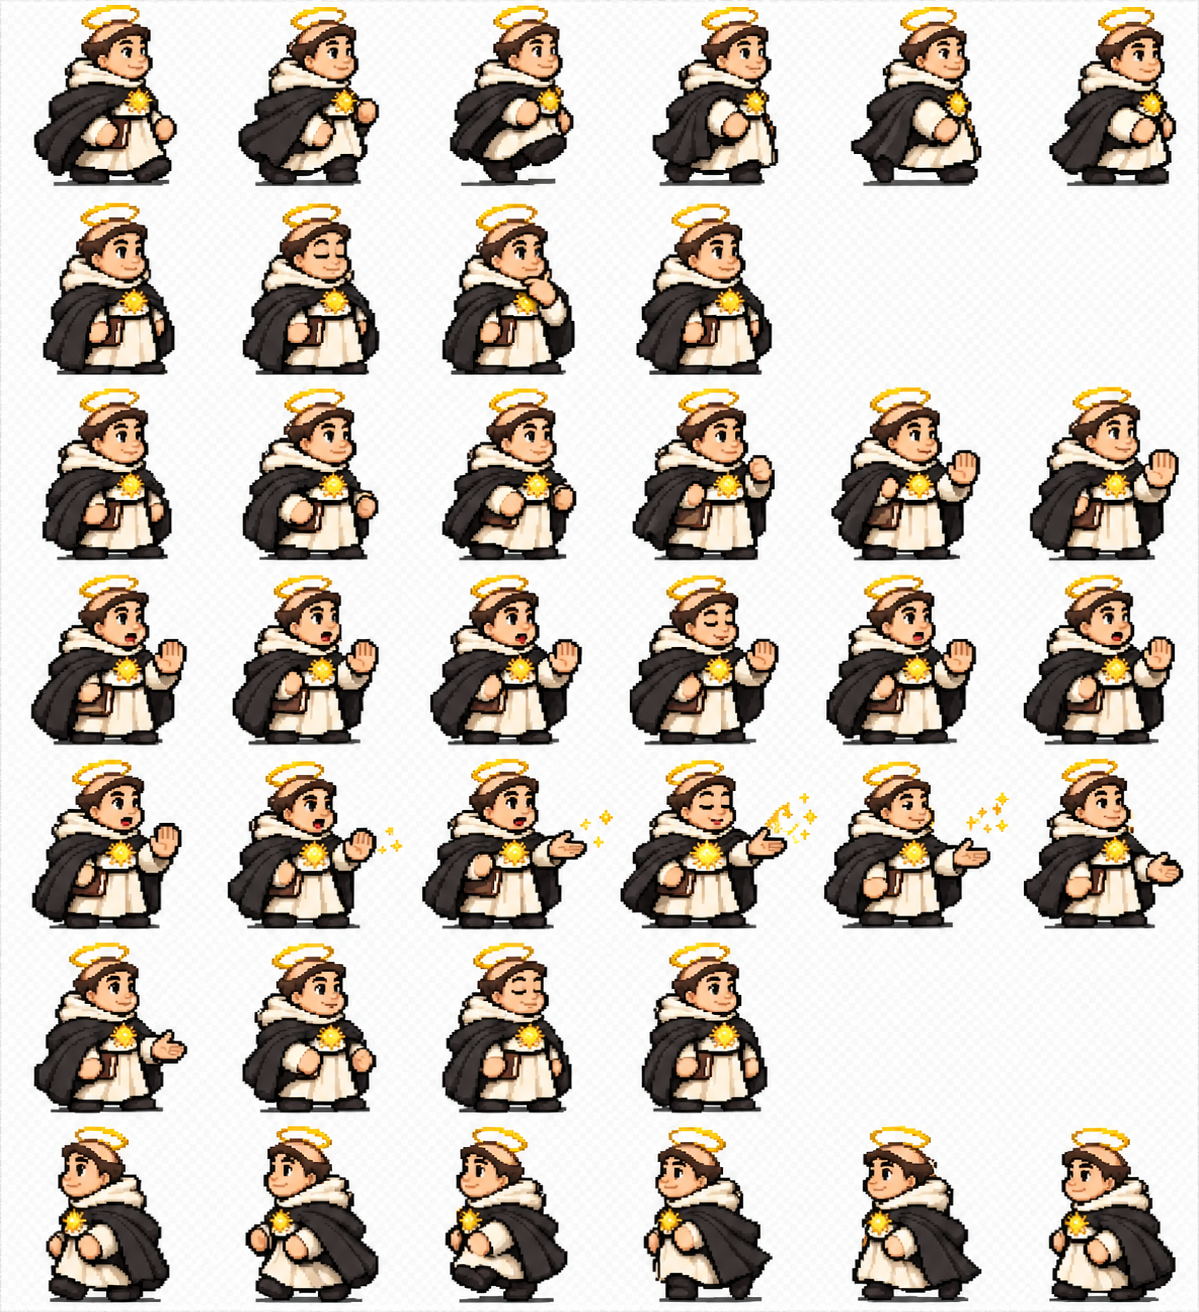
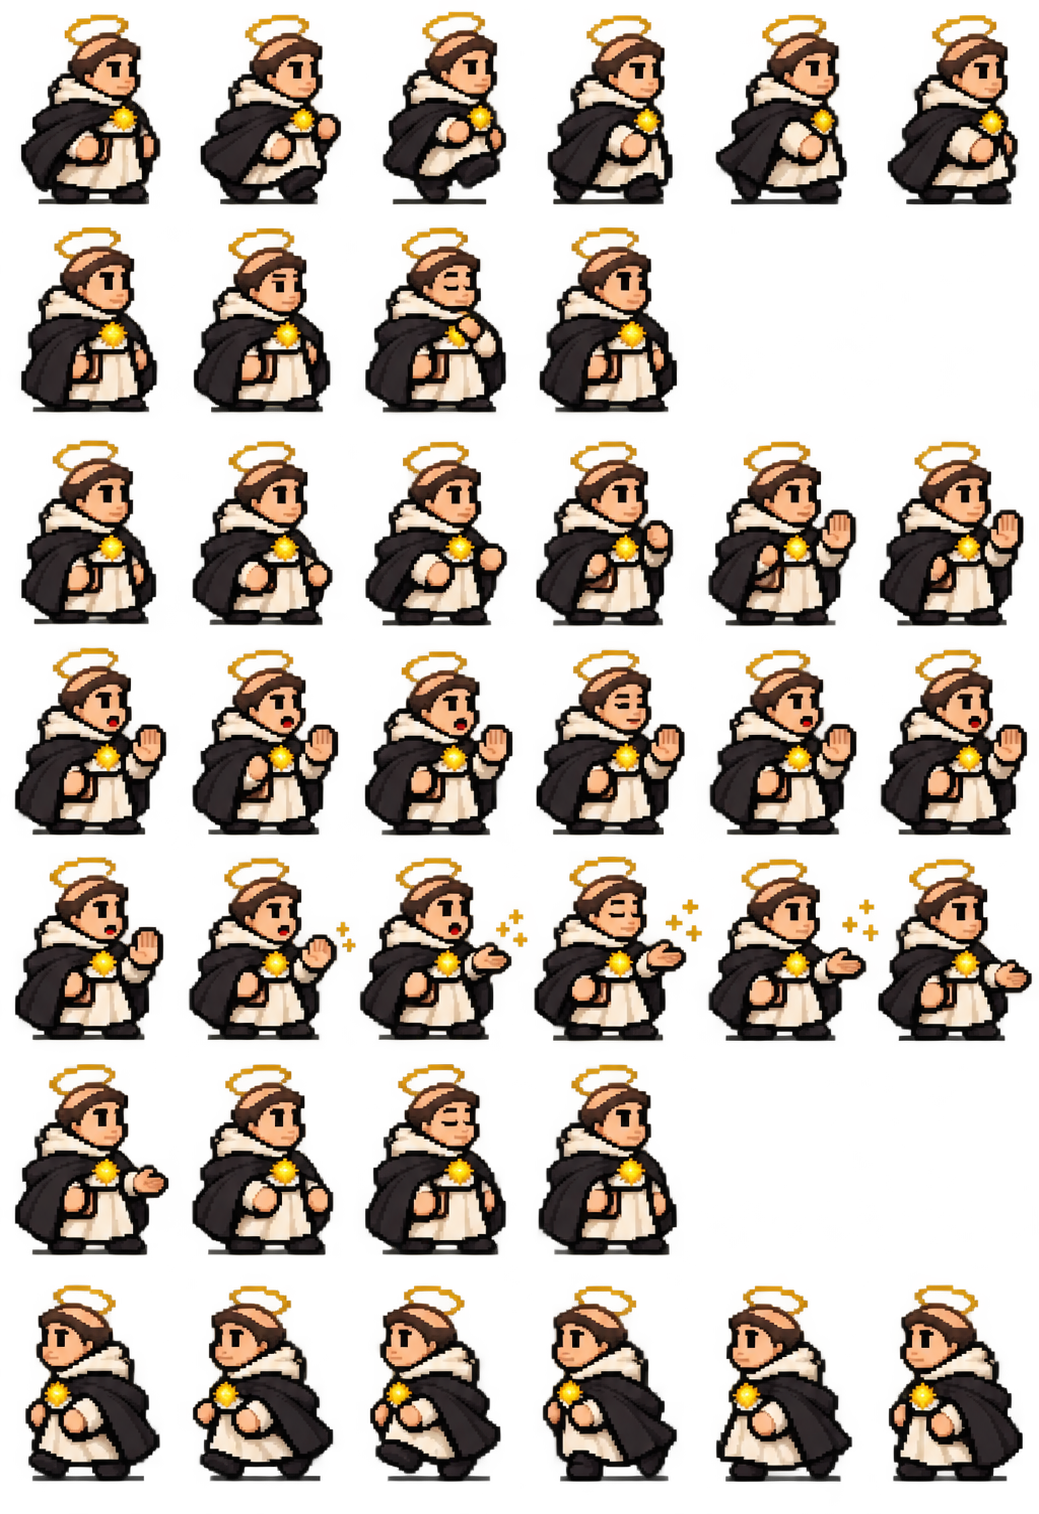
fix: pick up the new Liguori and Aquinas art; sturdier sprite packing
- New Liguori and Aquinas sheets. The Liguori source had been saved as
  "ligouri", which no patron loads, so the app kept the old art; renamed to
  liguori-source.png.
- pack-sprite cuts rows through the empty gap between them instead of at
  even intervals (halos crossing the even split were sliced), and drops
  pieces of neighbouring frames by direction: side-border spill and a lower
  row's halo below the feet, never anything at the top (own halo).
- make sprites warns when a sheet doesn't match any patron's sheetName.

diff --git a/tools/pack-sprite.swift b/tools/pack-sprite.swift
@@ -71,30 +71,60 @@ let rows = frameCounts.count
 let cellW = Double(w) / Double(cols)
 let cellH = Double(h) / Double(rows)
 
+// Row boundaries: artists (and image generators) rarely space rows evenly, so cut each boundary
+// through the widest empty horizontal gap near where it nominally falls. Without a gap, use the even split.
+func rowIsEmpty(_ y: Int) -> Bool {
+    var x = 0
+    while x < w { if px[(y * w + x) * 4 + 3] >= edgeAlpha { return false }; x += 1 }
+    return true
+}
+var rowEdges = [0]
+for r in 1..<rows {
+    let nominal = Int((Double(r) * cellH).rounded())
+    let window = Int(cellH * 0.3)
+    var best: (start: Int, length: Int)? = nil
+    var y = max(nominal - window, 1)
+    while y < min(nominal + window, h - 1) {
+        guard rowIsEmpty(y) else { y += 1; continue }
+        var end = y
+        while end + 1 < h && rowIsEmpty(end + 1) { end += 1 }
+        let length = end - y + 1
+        if best == nil || length > best!.length { best = (y, length) }
+        y = end + 1
+    }
+    rowEdges.append(best.map { $0.start + $0.length / 2 } ?? nominal)
+}
+rowEdges.append(h)
+
 var out = [UInt8](repeating: 0, count: outW * cols * outH * rows * 4)
 let outStride = outW * cols * 4
 
-// Small specks that belong to a neighbouring frame (e.g. sparkles spilling across the line) are
-// excluded from this frame's bounds and not copied into it. A speck is a neighbour's if it touches
-// the cell border, or sits wholly beside this frame's main figure and nearer the border than the
-// figure. Halos are kept: they sit above the figure, not beside it.
+// Pieces of neighbouring frames (sparkles spilling across the line, a halo poking up from the row
+// below) are excluded from this frame's bounds and not copied into it. A piece is a neighbour's if
+// it touches a side border, touches the bottom border below the figure's feet, or is a small speck
+// wholly beside the figure and nearer the border than the figure. Nothing touching the top border is
+// removed, since that's where this frame's own halo can sit.
 func strayEdgeSpecks(x0: Int, x1: Int, y0: Int, y1: Int) -> Set<Int> {
-    let maxSpeck = 300  // px; a figure is thousands
+    let maxSpeck = 300          // px, for specks beside the figure (sparkles)
+    let maxBorderFragment = 1500  // px, for pieces touching the border (e.g. a neighbour's halo); a figure is many thousands
     let edgeMargin = 4  // px from the border that still counts as touching it
-    struct Component { var pixels: [Int]; var minX: Int; var maxX: Int; var touchesBorder: Bool }
+    struct Component {
+        var pixels: [Int]; var minX: Int; var maxX: Int; var minY: Int; var maxY: Int
+        var touchesSide = false, touchesBottom = false
+    }
     var visited = Set<Int>(), components: [Component] = []
     for y in y0..<y1 { for x in x0..<x1 {
         let start = y * w + x
         guard px[start * 4 + 3] >= noiseAlpha, !visited.contains(start) else { continue }
-        var comp = Component(pixels: [start], minX: x, maxX: x, touchesBorder: false)
+        var comp = Component(pixels: [start], minX: x, maxX: x, minY: y, maxY: y)
         var stack = [start]
         visited.insert(start)
         while let p = stack.popLast() {
             let cx = p % w, cy = p / w
             comp.minX = min(comp.minX, cx); comp.maxX = max(comp.maxX, cx)
-            if cx < x0 + edgeMargin || cx >= x1 - edgeMargin || cy < y0 + edgeMargin || cy >= y1 - edgeMargin {
-                comp.touchesBorder = true
-            }
+            comp.minY = min(comp.minY, cy); comp.maxY = max(comp.maxY, cy)
+            if cx < x0 + edgeMargin || cx >= x1 - edgeMargin { comp.touchesSide = true }
+            if cy >= y1 - edgeMargin { comp.touchesBottom = true }
             for (nx, ny) in [(cx + 1, cy), (cx - 1, cy), (cx, cy + 1), (cx, cy - 1)]
             where nx >= x0 && nx < x1 && ny >= y0 && ny < y1 {
                 let n = ny * w + nx
@@ -107,12 +137,16 @@ func strayEdgeSpecks(x0: Int, x1: Int, y0: Int, y1: Int) -> Set<Int> {
     } }
     guard let main = components.max(by: { $0.pixels.count < $1.pixels.count }) else { return [] }
     var stray = Set<Int>()
-    for comp in components where comp.pixels.count <= maxSpeck {
-        var isStray = comp.touchesBorder
-        if comp.maxX < main.minX {         // wholly left of the figure
-            isStray = isStray || (comp.minX - x0) < (main.minX - comp.maxX)
-        } else if comp.minX > main.maxX {  // wholly right of the figure
-            isStray = isStray || (x1 - 1 - comp.maxX) < (comp.minX - main.maxX)
+    for comp in components where comp.pixels.count <= maxBorderFragment && comp.pixels.count != main.pixels.count {
+        // Side border: spill from the frame beside. Bottom border and wholly below the feet: the next
+        // row's halo. The top border is left alone — that's where this frame's own halo lives.
+        var isStray = comp.touchesSide || (comp.touchesBottom && comp.minY > main.maxY)
+        if comp.pixels.count <= maxSpeck {
+            if comp.maxX < main.minX {         // wholly left of the figure
+                isStray = isStray || (comp.minX - x0) < (main.minX - comp.maxX)
+            } else if comp.minX > main.maxX {  // wholly right of the figure
+                isStray = isStray || (x1 - 1 - comp.maxX) < (comp.minX - main.maxX)
+            }
         }
         if isStray { stray.formUnion(comp.pixels) }
     }
@@ -122,7 +156,7 @@ func strayEdgeSpecks(x0: Int, x1: Int, y0: Int, y1: Int) -> Set<Int> {
 for (r, count) in frameCounts.enumerated() {
     for c in 0..<count {
         let x0 = Int((Double(c) * cellW).rounded()), x1 = min(Int((Double(c + 1) * cellW).rounded()), w)
-        let y0 = Int((Double(r) * cellH).rounded()), y1 = min(Int((Double(r + 1) * cellH).rounded()), h)
+        let y0 = rowEdges[r], y1 = rowEdges[r + 1]
         let stray = strayEdgeSpecks(x0: x0, x1: x1, y0: y0, y1: y1)
         var minX = Int.max, maxX = -1, minY = Int.max, maxY = -1
         for y in y0..<y1 { for x in x0..<x1 where px[(y * w + x) * 4 + 3] >= edgeAlpha && !stray.contains(y * w + x) {
